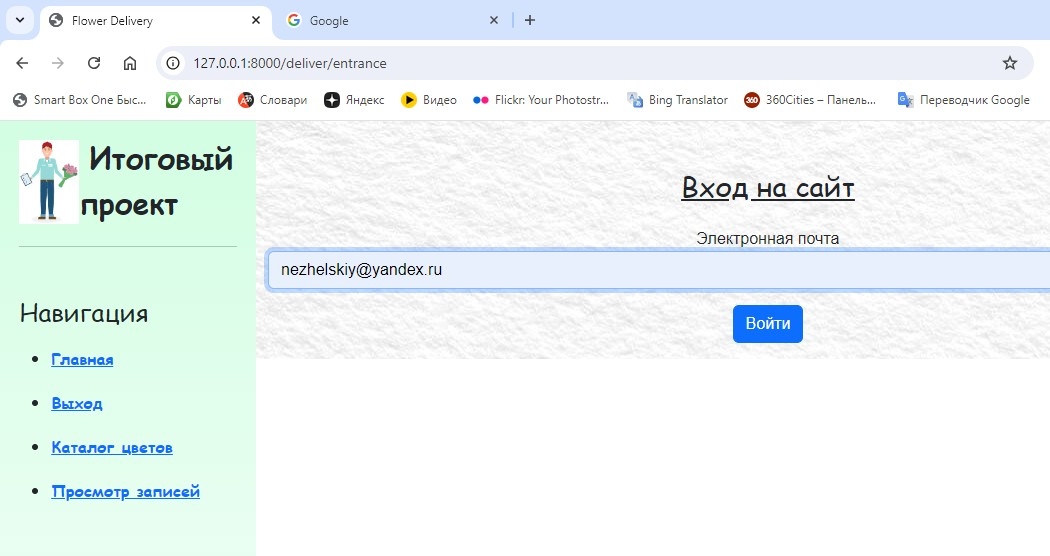
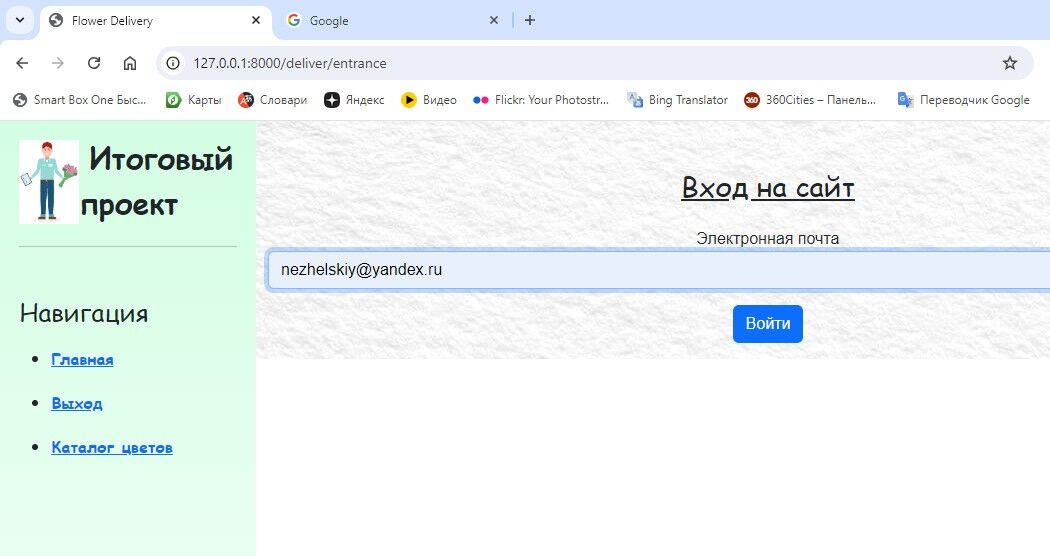
Загрузка доработанных файлов проекта

diff --git a/flower_delivery/delivery/templates/delivery/navigation.html b/flower_delivery/delivery/templates/delivery/navigation.html
@@ -15,5 +15,5 @@
             <li><a href="{% url 'registration' %}">Регистация</a></li>
         {% endif %}
     <li><a href="{% url 'catalog' %}">Каталог цветов</a></li>
-    <li><a href="{% url 'viewsrec' %}">Просмотр записей</a></li>
+<!--    <li><a href="{% url 'viewsrec' %}">Просмотр записей</a></li>-->
 </ul>

diff --git a/README.md b/README.md
@@ -45,26 +45,26 @@
 
 ### Структура базы данных [models.py](flower_delivery/Fdelivery/Fmodels.py)
 
-| User                           |
-|-----------------------------------|
-| <strong>name "Имя"                |
-| <strong>emali "Электронная почта" |
+| User                                       |
+|--------------------------------------------|
+| <strong>name</strong> "Имя"                |
+| <strong>emali</strong> "Электронная почта" |
 
-| Product            |
-|-----------------------|
-| <strong>title "Букет" |
-| <strong>pice "Цена"   |
+| Product                        |
+|--------------------------------|
+| <strong>title</strong> "Букет" |
+| <strong>pice</strong> "Цена"   |
 
-| Order                                        |
-|----------------------------------------------|
-| <strong>user "Покупатель" [ForeignKey(User)]         |
-| <strong>products "Букеты" [ManyToManyField(Product)] |
+| Order                                                         |
+|---------------------------------------------------------------|
+| <strong>user</strong> "Покупатель" [ForeignKey(User)]         |
+| <strong>products</strong> "Букеты" [ManyToManyField(Product)] |
 
 
 ### Реализация интерфейса
 
 #### Домашняя страница в нерабочее время
-
+![shot0.jpg](shot0.jpg)
 #### Домашняя страница в рабочее время
 ![shot1.jpg](shot1.jpg)
 ![shot2.jpg](shot2.jpg)
